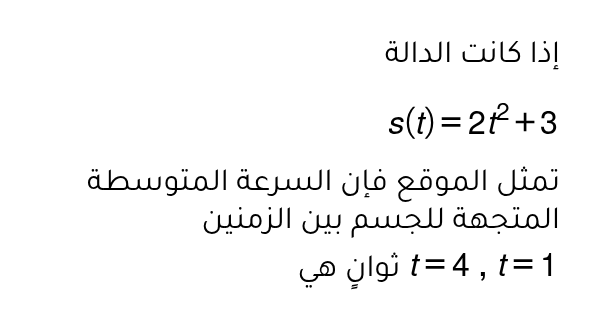
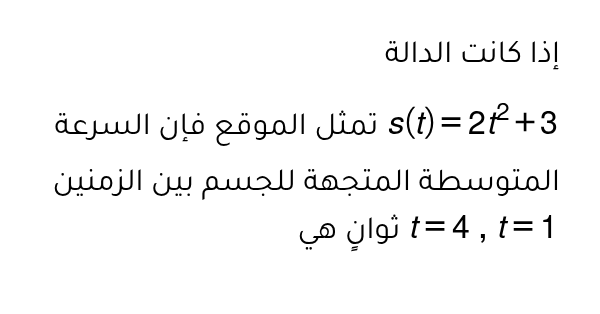
remove RTL from all p tags

diff --git a/test.js b/test.js
@@ -7,35 +7,7 @@ const event = {
     // html: `<p><math dir=\"rtl\" xmlns=\"http://www.w3.org/1998/Math/MathML\"><mi>&#1575;&#1604;&#1605;&#1578;&#1608;&#1587;&#1617;&#1616;&#1591;&#1615;</mi><mo>&#160;</mo><mi>&#1578;&#1602;&#1585;&#1610;&#1576;&#1611;&#1575;</mi><mo>&#160;</mo><mi>&#1610;&#1615;&#1587;&#1575;&#1608;&#1610;</mi><mo>&#160;</mo><mo>&#160;</mo><mn>&#1641;</mn><mo>.</mo><mn>&#1640;</mn><mo>&#160;</mo><mo>&#160;</mo><mi>&#1607;&#1584;&#1607;</mi><mo>&#160;</mo><mi>&#1575;&#1604;&#1576;&#1610;&#1575;&#1606;&#1575;&#1578;&#1615;</mi><mo>&#160;</mo><mi>&#1605;&#1615;&#1578;&#1605;&#1575;&#1579;&#1616;&#1604;&#1614;&#1577;&#1612;</mi><mo>&#160;</mo><mi>&#1573;&#1604;&#1609;</mi><mo>&#160;</mo><mi>&#1581;&#1583;&#1617;&#1613;</mi><mo>&#160;</mo><mi>&#1603;&#1576;&#1610;&#1585;&#1613;</mi><mo>&#160;</mo><mi>&#1608;&#1604;&#1575;</mi><mo>&#160;</mo><mi>&#1610;&#1615;&#1608;&#1580;&#1583;&#1615;</mi><mo>&#160;</mo><mi>&#1601;&#1610;&#1607;&#1575;</mi><mo>&#160;</mo><mi>&#1602;&#1610;&#1605;&#1612;</mi><mo>&#160;</mo><mi>&#1605;&#1615;&#1578;&#1591;&#1585;&#1617;&#1616;&#1601;&#1614;&#1577;&#1612;</mi><mo>&#160;</mo><mi>&#1601;&#1610;</mi><mo>&#160;</mo><mi>&#1607;&#1584;&#1607;</mi></math></p>\n<p>الحالةِ، يُمثِّلُ المتوسِّطُ المركزَ الحقيقيَّ لمجموعةِ البياناتِ، ويُعطي أفضلَ تقديرٍ للأداءِ العامِّ للطُّلاب</p>\n<p>&nbsp;</p>`,
     // html: `<p><math dir=\"rtl\" xmlns=\"http://www.w3.org/1998/Math/MathML\"><mi>&#1583;&#1585;&#1580;&#1575;&#1578;&#1615;</mi><mo>&#160;</mo><mo>&#160;</mo><mn>&#1641;</mn><mo>&#160;</mo><mo>&#160;</mo><mi>&#1591;&#1604;&#1575;&#1576;&#1613;</mi><mo>&#160;</mo><mi>&#1601;&#1610;</mi><mo>&#160;</mo><mi>&#1575;&#1582;&#1578;&#1576;&#1575;&#1585;&#1613;</mi><mo>&#160;</mo><mi>&#1602;&#1589;&#1610;&#1585;&#1613;</mi><mo>&#160;</mo><mi>&#1605;&#1606;</mi><mo>&#160;</mo><mo>&#160;</mo><mn>&#1633;&#1632;</mn><mo>&#160;</mo></math></p>\n<p><math dir=\"rtl\" xmlns=\"http://www.w3.org/1998/Math/MathML\"><mn>&#1633;&#1632;</mn><mo>&#160;</mo><mo>&#1548;</mo><mo>&#160;</mo><mn>&#1639;</mn><mo>&#160;</mo><mo>&#1548;</mo><mo>&#160;</mo><mn>&#1640;</mn><mo>&#160;</mo><mo>&#1548;</mo><mo>&#160;</mo><mn>&#1641;</mn><mo>&#160;</mo><mo>&#1548;</mo><mo>&#160;</mo><mn>&#1633;&#1632;</mn><mo>&#160;</mo><mo>&#1548;</mo><mo>&#160;</mo><mn>&#1641;</mn><mo>&#160;</mo><mo>&#1548;</mo><mo>&#160;</mo><mn>&#1641;</mn><mo>&#160;</mo><mo>&#1548;</mo><mo>&#160;</mo><mn>&#1633;&#1632;</mn><mo>&#160;</mo><mo>&#1548;</mo><mo>&#160;</mo><mn>&#1640;</mn></math></p>\n<p>أيُّ المقاييسِ (المتوسِّط، الوسيط، المِنوال) هو الأنسبُ لوصفِ الأداءِ العامِّ للطُّلاب؟</p>\n<p><math dir=\"rtl\" xmlns=\"http://www.w3.org/1998/Math/MathML\"><mi>&#1608;&#1603;&#1575;&#1606;&#1578;&#1618;</mi><mo>&#160;</mo><mi>&#1602;&#1610;&#1605;&#1615;</mi><mo>&#160;</mo><mi>&#1575;&#1604;&#1605;&#1602;&#1575;&#1610;&#1610;&#1587;</mi><mo>:</mo><mo>&#160;</mo><mi>&#1575;&#1604;&#1605;&#1578;&#1608;&#1587;&#1617;&#1616;&#1591;</mi><mo>&#160;</mo><mo>&#160;</mo><mo>&#8773;</mo><mo>&#160;</mo><mo>&#160;</mo><mo>&#160;</mo><mn>&#1641;</mn><mo>.</mo><mn>&#1640;</mn><mo>&#160;</mo><mo>&#160;</mo><mo>/</mo><mo>&#160;</mo><mi>&#1575;&#1604;&#1608;&#1587;&#1610;&#1591;</mi><mo>&#160;</mo><mo>=</mo><mo>&#160;</mo><mo>&#160;</mo><mn>&#1641;</mn><mo>&#160;</mo><mo>&#160;</mo><mo>/</mo><mo>&#160;</mo><mi>&#1575;&#1604;&#1605;&#1616;&#1606;&#1608;&#1575;&#1604;</mi><mo>&#160;</mo><mo>=</mo><mo>&#160;</mo><mo>&#160;</mo><mn>&#1641;</mn><mo>&#160;</mo><mo>&#160;</mo><mi>&#1608;</mi><mo>&#160;</mo><mo>&#160;</mo><mn>&#1633;&#1632;</mn></math></p>`,
     // html: `<div dir=\"rtl\" style=\"text-align:right;direction:rtl;\"><p dir=\"rtl\">إذا كانت الدالة&nbsp;<math xmlns=\"http://www.w3.org/1998/Math/MathML\"><mi>s</mi><mo>(</mo><mi>t</mi><mo>)</mo><mo>=</mo><mn>2</mn><msup><mi>t</mi><mn>2</mn></msup><mo>+</mo><mn>3</mn></math> تمثل الموقع فإن السرعة المتوسطة المتجهة للجسم بين الزمنين&nbsp;<math xmlns=\"http://www.w3.org/1998/Math/MathML\"><mi>t</mi><mo>=</mo><mn>4</mn><mo>&#160;</mo><mo>,</mo><mo>&#160;</mo><mi>t</mi><mo>=</mo><mn>1</mn></math> ثوانٍ هي&nbsp;</p></div`,
-    html: `<div dir=\"rtl\" style=\"text-align:right;direction:rtl;\">
-    <p dir=\"rtl\">إذا كانت الدالة&nbsp; <p><math xmlns=\"http://www.w3.org/1998/Math/MathML\">
-            <mi>s</mi>
-            <mo>(</mo>
-            <mi>t</mi>
-            <mo>)</mo>
-            <mo>=</mo>
-            <mn>2</mn>
-            <msup>
-                <mi>t</mi>
-                <mn>2</mn>
-            </msup>
-            <mo>+</mo>
-            <mn>3</mn>
-        </math></p> تمثل الموقع فإن السرعة المتوسطة المتجهة للجسم بين الزمنين&nbsp;
-        <math xmlns=\"http://www.w3.org/1998/Math/MathML\">
-            <mi>t</mi>
-            <mo>=</mo>
-            <mn>4</mn>
-            <mo>&#160;</mo>
-            <mo>,</mo>
-            <mo>&#160;</mo>
-            <mi>t</mi>
-            <mo>=</mo>
-            <mn>1</mn>
-        </math> ثوانٍ هي&nbsp;</p>
-</div>`,
-    
-    
+    html: `<p dir=\"rtl\">إذا كانت الدالة <math xmlns=\"http://www.w3.org/1998/Math/MathML\"><mi>s</mi><mo>(</mo><mi>t</mi><mo>)</mo><mo>=</mo><mn>2</mn><msup><mi>t</mi><mn>2</mn></msup><mo>+</mo><mn>3</mn></math> تمثل الموقع فإن السرعة المتوسطة المتجهة للجسم بين الزمنين&nbsp;<math xmlns=\"http://www.w3.org/1998/Math/MathML\"><mi>t</mi><mo>=</mo><mn>4</mn><mo>&#160;</mo><mo>,</mo><mo>&#160;</mo><mi>t</mi><mo>=</mo><mn>1</mn></math> ثوانٍ هي&nbsp;</p>`,
     storage: "local",
     key: "test.png",
     padding: 20,

diff --git a/index.js b/index.js
@@ -172,6 +172,21 @@ function containsArabicMathContent(html) {
     const mathBlocks = html.match(/<math[\s\S]*?<\/math>/gi) || [];
     return mathBlocks.some((block) => /[\u0600-\u06FF\u0750-\u077F\u08A0-\u08FF]/u.test(decodeNumericEntities(block)));
 }
+
+function stripRTLFromPTags(html) {
+  return html.replace(/<p\b([^>]*)>/gi, (match, attrs) => {
+    let newAttrs = attrs;
+
+    // remove dir="rtl"
+    newAttrs = newAttrs.replace(/\sdir\s*=\s*["']rtl["']/gi, '');
+
+    // remove direction: rtl from style
+    newAttrs = newAttrs.replace(/direction\s*:\s*rtl\s*;?/gi, '');
+
+    return `<p${newAttrs}>`;
+  });
+}
+
 export function preprocessHtmlForRender(html) {
     const withInlineRtlMath = wrapInlineRtlMath(html);
     const withAdjacentInlineOrderFixed = reorderAdjacentArabicAndInlineMath(withInlineRtlMath);
@@ -198,7 +213,7 @@ export function preprocessHtmlForRender(html) {
     // Wrap math blocks with <p> if not already wrapped
     const wrappedMath = withNormalizedMi.replace(
         /(<math[\s\S]*?<\/math>)/gi,
-        (mathBlock) => `<span>${mathBlock}</span>`
+        (mathBlock) => `<p style="display:inline-block">${mathBlock}</p>`
     );
 
     return wrappedMath;
@@ -226,9 +241,9 @@ export const handler = async (event) => {
         if (storage === 's3' && (!bucket || !key)) {
             return response(400, { error: 'bucket and key required for s3' });
         }
-
-        const processedHtml = preprocessHtmlForRender(html);
-        const effectiveUseWiris = useWiris && !containsArabicMathContent(html);
+        const strippedHtml = stripRTLFromPTags(html);
+        const processedHtml = preprocessHtmlForRender(strippedHtml);
+        const effectiveUseWiris = useWiris && !containsArabicMathContent(strippedHtml);
 
         const initialViewport = {
             width: Math.max(1, Number(maxWidth) || 300),
